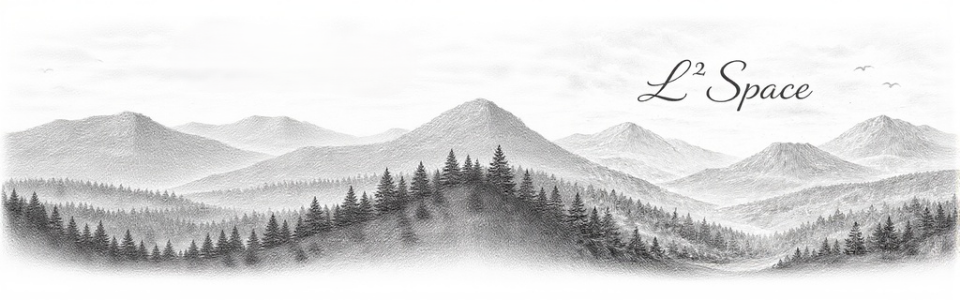
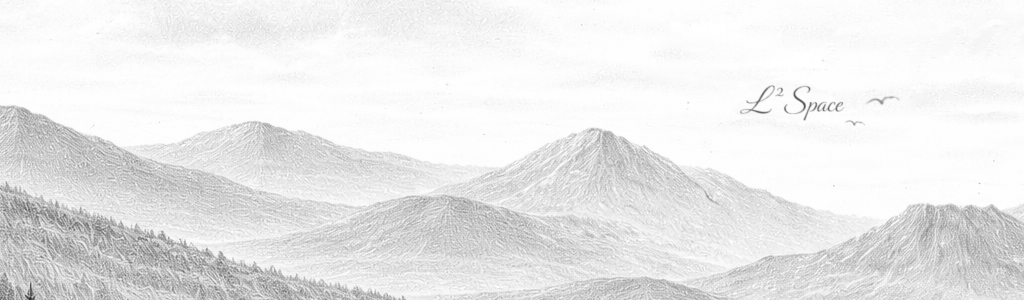
Updated blog layout.

diff --git a/index.md b/index.md
@@ -12,7 +12,7 @@ excerpt: |
   Here, ideas don’t just accumulate — they interact.
 
 header:
-  overlay_image: /assets/images/cover2.png
+  overlay_image: /assets/images/cover.png
   overlay_filter: 0.15
 
 author_profile: true
